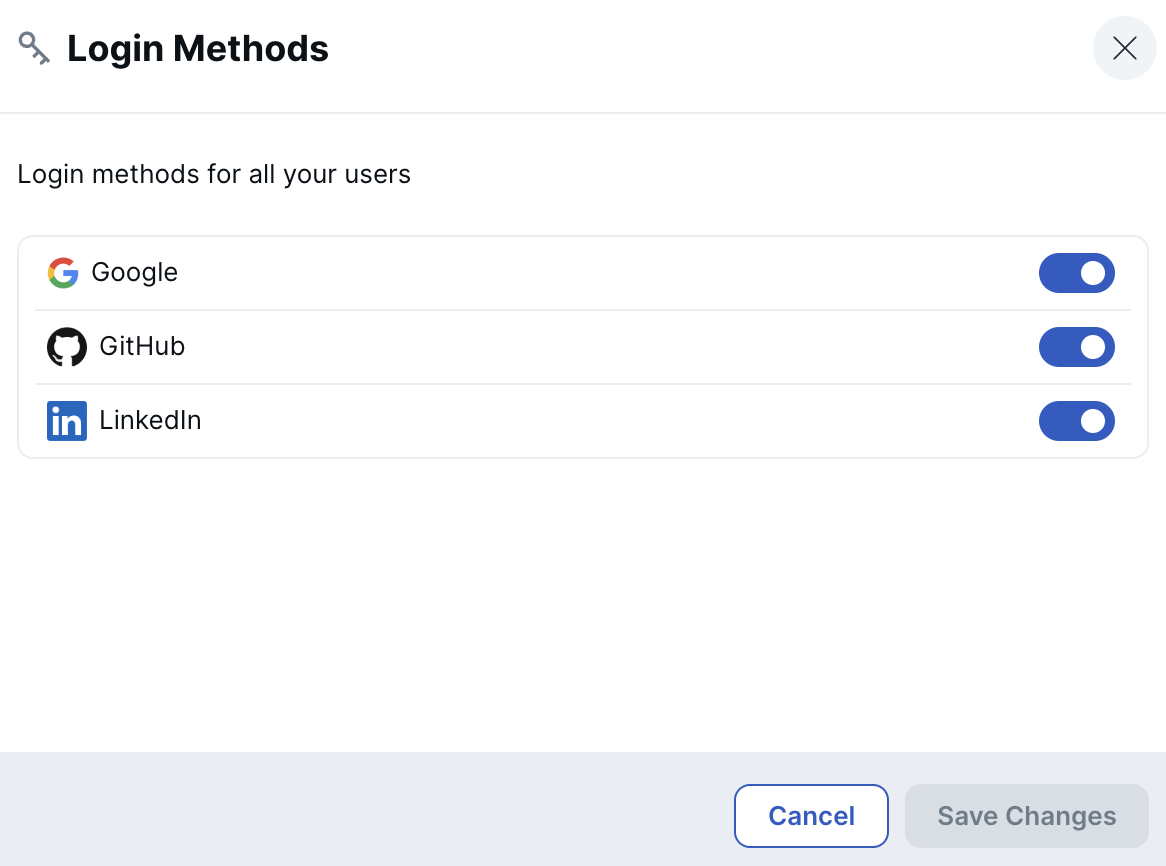
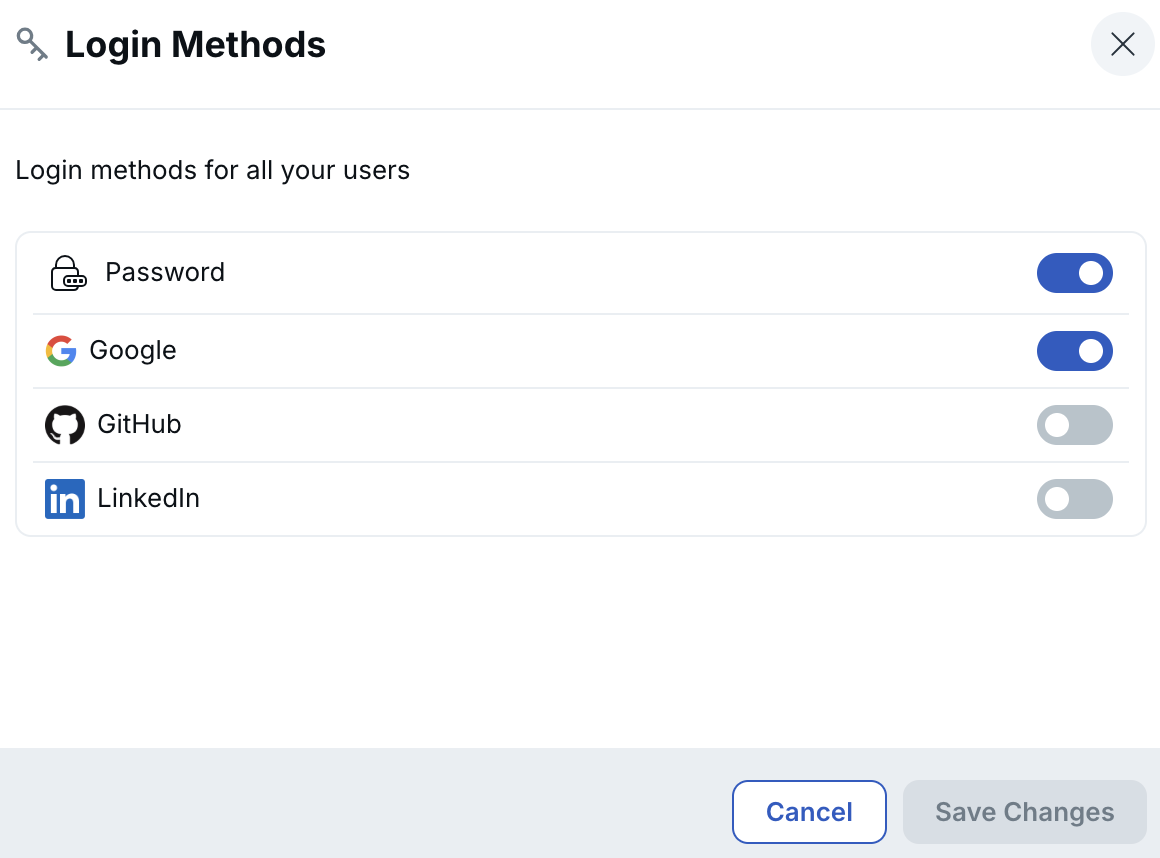
Login settings UI changes

diff --git a/docs/content/preview/yugabyte-cloud/managed-security/managed-authentication/social-login.md b/docs/content/preview/yugabyte-cloud/managed-security/managed-authentication/social-login.md
@@ -14,15 +14,15 @@ rightNav:
   hideH4: true
 ---
 
-The available social logins include Google, GitHub, and LinkedIn. All three are enabled by default.
+In addition to password login, you can use social logins, including Google, GitHub, and LinkedIn, to access your account.
 
 To manage the social logins available to your account users, do the following:
 
 1. Navigate to **Security > Access Control > Authentication**, and click **Edit Configuration** to display the **Login Methods** dialog.
 
-    ![Social Login methods](/images/yb-cloud/managed-authentication-social.png)
+    ![Login methods](/images/yb-cloud/managed-authentication-social.png)
 
-1. Enable the social logins you want to use.
+1. Enable the login methods you want to use.
 1. Click **Save Changes**.
 
 If you revoke a social login that is already in use, users using that social login can either [reset their password](../../manage-access/#reset-your-password) to configure email-based login, or sign in using a different social login. The social account must be associated with the same email address.
